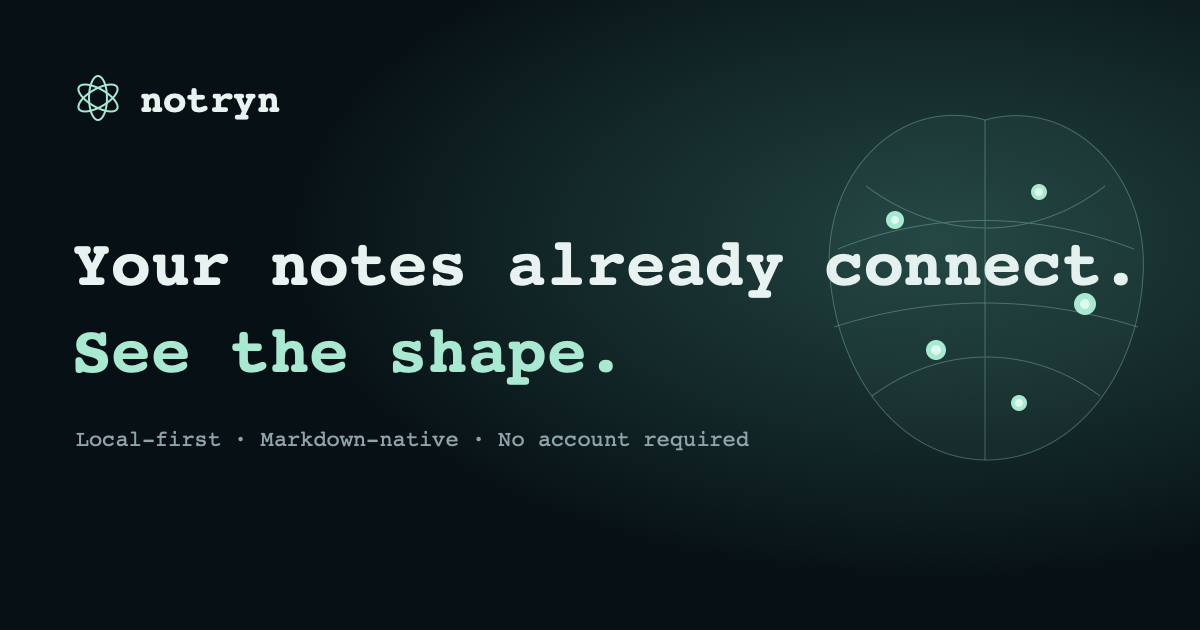
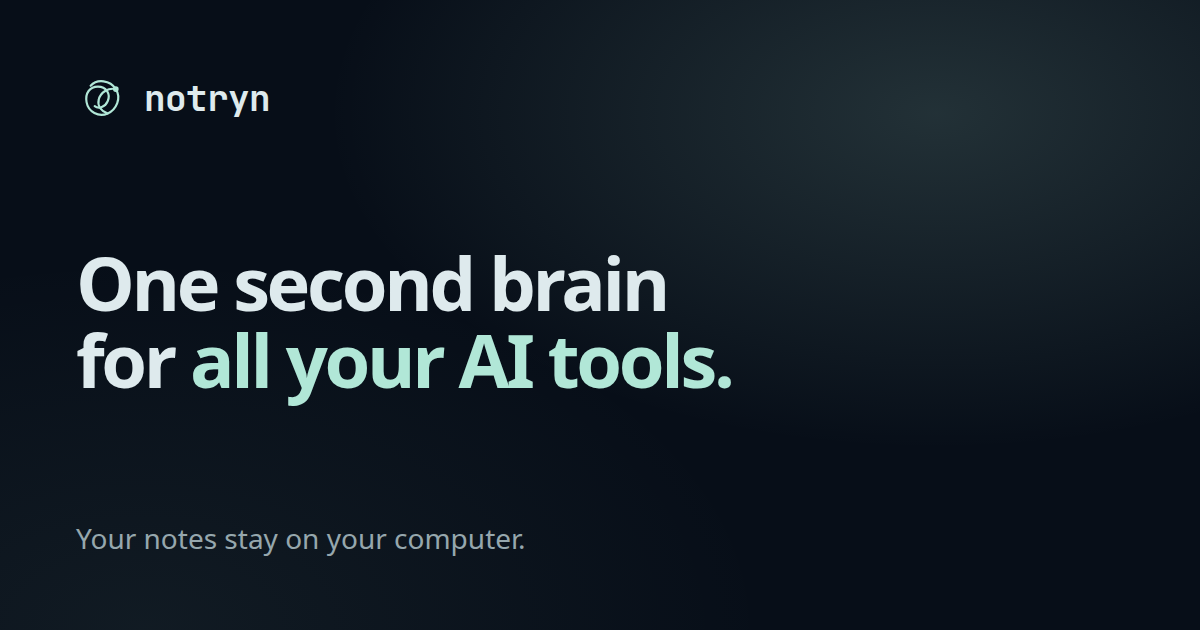
Fix mobile layout and refresh the homepage message (#19)
* Fix mobile layout and update the homepage message.

Keep the header call to action visible from 320px, restore readable type and tap targets, shorten the mobile demo, and replace the hero, share card, sync section and FAQ with the current copy.

* Update the SEO title and the sync section heading.

Point the page title and descriptions at synced notes, and rename the sync section without changing the hero headline.

---------

diff --git a/index.html b/index.html
@@ -3,29 +3,35 @@
 <head>
   <meta charset="utf-8"><meta name="viewport" content="width=device-width,initial-scale=1">
   <meta name="theme-color" content="#070e18">
-  <meta name="description" content="Notryn is a free, local-first Markdown notes app for Linux and macOS. Connect notes with wiki links, explore them as a Brain, keep AI context in plain files and sync through your own GitHub repository.">
-  <title>Notryn · Free local Markdown notes app for Linux &amp; macOS</title>
+  <meta name="description" content="Free second brain for your AI tools. Notes stay on your computer, synced notes on all your computers, and you can switch AI tools without losing context.">
+  <title>Notryn | Second brain for your AI tools, with synced notes</title>
   <meta property="og:type" content="website"><meta property="og:site_name" content="Notryn"><meta property="og:url" content="https://notryn.com/">
-  <meta property="og:title" content="Notryn · Your notes, connected."><meta property="og:description" content="A local Markdown workspace for your ideas, projects and AI context. Keep your own files.">
-  <meta property="og:image" content="https://notryn.com/assets/notryn-card.png"><meta property="og:image:width" content="1200"><meta property="og:image:height" content="630"><meta property="og:image:alt" content="Notryn: your notes, connected.">
+  <meta property="og:title" content="Notryn | Second brain for your AI tools, with synced notes"><meta property="og:description" content="Free second brain for your AI tools. Notes stay on your computer, synced notes on all your computers, and you can switch AI tools without losing context.">
+  <meta property="og:image" content="https://notryn.com/assets/notryn-card.png"><meta property="og:image:width" content="1200"><meta property="og:image:height" content="630"><meta property="og:image:alt" content="Notryn: One second brain for all your AI tools.">
   <meta name="twitter:card" content="summary_large_image">
+  <meta name="twitter:title" content="Notryn | Second brain for your AI tools, with synced notes">
+  <meta name="twitter:description" content="Free second brain for your AI tools. Notes stay on your computer, synced notes on all your computers, and you can switch AI tools without losing context.">
+  <meta name="twitter:image" content="https://notryn.com/assets/notryn-card.png">
+  <meta name="twitter:image:alt" content="Notryn: One second brain for all your AI tools.">
   <link rel="icon" href="assets/favicon.svg" type="image/svg+xml">
   <script src="assets/runtime/theme-core.js"></script><script src="theme.js"></script>
   <link rel="stylesheet" href="styles.css"><script defer src="page.js"></script>
-<script type="application/ld+json">[{"@context": "https://schema.org", "@type": "WebSite", "name": "Notryn", "url": "https://notryn.com/"}, {"@context": "https://schema.org", "@type": "SoftwareApplication", "name": "Notryn", "url": "https://notryn.com/", "description": "Notryn is a free, local-first Markdown notes app for Linux and macOS. Connect notes with wiki links, explore them as a Brain, keep AI context in plain files and sync through your own GitHub repository.", "applicationCategory": "ProductivityApplication", "operatingSystem": "Linux, macOS", "softwareVersion": "0.2.0-beta.13", "image": "https://notryn.com/assets/notryn-card.png", "offers": {"@type": "Offer", "price": "0", "priceCurrency": "USD"}, "author": {"@type": "Person", "name": "Pedro Teixeira"}}, {"@context": "https://schema.org", "@type": "FAQPage", "mainEntity": [{"@type": "Question", "name": "Does it work with my existing notes?", "acceptedAnswer": {"@type": "Answer", "text": "Connect a folder of Markdown files. Notryn follows your folders and reads Markdown links and wiki links between notes. Your files stay in their original location."}}, {"@type": "Question", "name": "Is there a mobile app?", "acceptedAnswer": {"@type": "Answer", "text": "Not yet. A mobile version is in development, with no release date yet. Because your Brains can sync through your own GitHub repository, the same notes will be ready for it. Today Notryn runs on Linux and macOS."}}, {"@type": "Question", "name": "Is it free? What about sync?", "acceptedAnswer": {"@type": "Answer", "text": "The local app is free to use. To keep a Brain the same on several computers, connect it to a private GitHub repository you own. Your notes go only to GitHub, never to a Notryn server, and no Notryn account is needed. GitHub Sync is free during the beta."}}, {"@type": "Question", "name": "Can I contribute or use the source code?", "acceptedAnswer": {"@type": "Answer", "text": "Visit the Notryn GitHub project for the code, issues and development updates. Contributions are reviewed before merging. The software license and contributor terms define what is permitted."}}]}]</script>
+<script type="application/ld+json">[{"@context": "https://schema.org", "@type": "WebSite", "name": "Notryn", "url": "https://notryn.com/"}, {"@context": "https://schema.org", "@type": "SoftwareApplication", "name": "Notryn", "url": "https://notryn.com/", "description": "Free second brain for your AI tools. Notes stay on your computer, synced notes on all your computers, and you can switch AI tools without losing context.", "applicationCategory": "ProductivityApplication", "operatingSystem": "Linux, macOS", "softwareVersion": "0.2.0-beta.13", "image": "https://notryn.com/assets/notryn-card.png", "offers": {"@type": "Offer", "price": "0", "priceCurrency": "USD"}, "author": {"@type": "Person", "name": "Pedro Teixeira"}}, {"@context": "https://schema.org", "@type": "FAQPage", "mainEntity": [{"@type": "Question", "name": "How do I build a Brain?", "acceptedAnswer": {"@type": "Answer", "text": "Start small. Write one note for each idea, project or person, and link the notes that belong together so they join up in the Brain. Give your AI tools access to the folder, and they can read these notes and, if you allow it, help keep them up to date. For the idea behind it, read Andrej Karpathy's LLM Wiki (https://gist.github.com/karpathy/442a6bf555914893e9891c11519de94f), a short guide to building a personal wiki that AI tools can read and maintain."}}, {"@type": "Question", "name": "Does it work with my existing notes?", "acceptedAnswer": {"@type": "Answer", "text": "Connect a folder of Markdown files. Notryn follows your folders and reads Markdown links and wiki links between notes. Your files stay in their original location."}}, {"@type": "Question", "name": "Is there a mobile app?", "acceptedAnswer": {"@type": "Answer", "text": "Not yet. A mobile version is in development, with no release date yet. Because your Brains can sync through your own GitHub repository, the same notes will be ready for it. Today Notryn runs on Linux and macOS."}}, {"@type": "Question", "name": "Is it free? What about sync?", "acceptedAnswer": {"@type": "Answer", "text": "The app itself stays free. To keep a Brain the same on several computers, connect it to a private GitHub repository you own. Your notes go only to GitHub, never to a Notryn server, and no Notryn account is needed. Free during the beta. Later, sync may become an optional paid feature at a low price, with a one-time option."}}, {"@type": "Question", "name": "Can I contribute or use the source code?", "acceptedAnswer": {"@type": "Answer", "text": "Visit the Notryn GitHub project for the code, issues and development updates. Contributions are reviewed before merging. The software license and contributor terms define what is permitted."}}]}]</script>
 <link rel="canonical" href="https://notryn.com/"></head>
 <body>
   <a class="skip-link" href="#main">Skip to content</a>
   <header class="site-header wrap" id="top">
     <a class="brand" href="#top" aria-label="Notryn home"><svg aria-hidden="true" viewBox="0 0 64 64"><use href="#notryn-mark"/></svg><span>notryn</span></a>
-    <nav aria-label="Main navigation"><a href="#experience">Explore</a><a href="guide.html">Docs</a><a href="https://github.com/pedromst/notryn">GitHub ↗</a><a class="nav-cta" href="#install">Get Notryn <span aria-hidden="true">↗</span></a></nav>
+    <nav aria-label="Main navigation"><a href="#experience">Explore</a><a href="guide.html">Docs</a><a href="https://github.com/pedromst/notryn">GitHub ↗</a><a class="nav-cta" href="#install">Get Notryn <span aria-hidden="true">↓</span></a></nav>
   </header>
   <main id="main">
+    <!-- Editable copy: hero strings, the sync intro and the FAQ live here as plain text. -->
     <section class="hero wrap">
       <p class="eyebrow"><span class="status-dot"></span> Free local app · Your files stay yours</p>
-      <h1>Your notes.<br><em>On your machine.</em></h1>
-      <p class="hero-copy">Write, find and connect your notes in one local workspace.<br> A Brain for your ideas, projects and the context your AI tools need.</p>
-      <div class="hero-actions"><a class="button" href="#install">Get Notryn <span aria-hidden="true">↓</span></a><a class="text-link" href="#experience">Try the Brain <span aria-hidden="true">↘</span></a></div>
+      <h1>One second brain <br>for <em>all your AI tools.</em></h1>
+      <p class="hero-copy">Your notes stay on your computer, in files you own. Switch AI tools whenever you like without losing your context, and never depend on just one.</p>
+      <p class="hero-brain">See everything in the Brain, a visual map where every note is a dot and linked notes are joined by lines.</p>
+      <div class="hero-actions"><div class="hero-primary"><a class="button" href="#install">Get Notryn free <span aria-hidden="true">↓</span></a><p class="small hero-note">Linux and macOS (beta). No account needed.</p></div><a class="text-link" href="#experience">Try the live demo <span aria-hidden="true">↘</span></a></div>
     </section>
 
     <section class="experience wrap" id="experience" aria-labelledby="demo-title">
@@ -34,8 +40,10 @@
       <noscript><p>Enable JavaScript to explore the sample Brain.</p></noscript>
     </section>
 
+    <section class="sync-section wrap" id="sync" aria-labelledby="sync-title"><div class="sync-intro"><p class="eyebrow sync-kicker"><!-- Primer Octicons mark-github, MIT. Shape unchanged. --><svg class="github-mark" role="img" aria-label="GitHub" viewBox="0 0 24 24" width="16" height="16"><path fill="currentColor" d="M12 1C5.923 1 1 5.923 1 12c0 4.867 3.149 8.979 7.521 10.436.55.096.756-.233.756-.522 0-.262-.013-1.128-.013-2.049-2.764.509-3.479-.674-3.699-1.292-.124-.317-.66-1.293-1.127-1.554-.385-.207-.936-.715-.014-.729.866-.014 1.485.797 1.691 1.128.99 1.663 2.571 1.196 3.204.907.096-.715.385-1.196.701-1.471-2.448-.275-5.005-1.224-5.005-5.432 0-1.196.426-2.186 1.128-2.956-.111-.275-.496-1.402.11-2.915 0 0 .921-.288 3.024 1.128a10.193 10.193 0 0 1 2.75-.371c.936 0 1.871.123 2.75.371 2.104-1.43 3.025-1.128 3.025-1.128.605 1.513.221 2.64.111 2.915.701.77 1.127 1.747 1.127 2.956 0 4.222-2.571 5.157-5.019 5.432.399.344.743 1.004.743 2.035 0 1.471-.014 2.654-.014 3.025 0 .289.206.632.756.522C19.851 20.979 23 16.854 23 12c0-6.077-4.922-11-11-11Z"/></svg> GitHub Sync</p><h2 id="sync-title">Your Brain, synced on all your computers</h2><p>GitHub Sync keeps your Brain the same on several computers, through a private GitHub repository you own. Free during the beta. Later, sync may become an optional paid feature at a low price, with a one-time option. The app itself stays free.</p><a class="text-link" href="sync.html">Set up sync <span>→</span></a></div><ol class="sync-steps"><li><strong>Create a private repository</strong><span>On GitHub. Empty, any name. Your notes live there, not on a Notryn server.</span></li><li><strong>Connect a fine-grained token</strong><span>Access to that repository only, with Contents read and write. Notryn keeps it in your system keychain.</span></li><li><strong>Choose the same repository on each computer</strong><span>On a new computer, create an empty Brain and pick the repository. Your notes arrive on the first sync.</span></li></ol></section>
+
     <section class="install-section wrap" id="install" aria-labelledby="install-title">
-      <div class="install-intro"><p class="eyebrow">On your computer</p><h2 id="install-title">A small command.<br>Your own workspace.</h2><p>Install from the terminal. Then open Notryn from your app menu, like any desktop app.</p><a class="text-link" href="guide.html">Install, update &amp; uninstall <span aria-hidden="true">↗</span></a></div>
+      <div class="install-intro"><p class="eyebrow">On your computer</p><h2 id="install-title">A small command. <br>Your own workspace.</h2><p>Install from the terminal. Then open Notryn from your app menu, like any desktop app.</p><a class="text-link" href="guide.html">Install, update &amp; uninstall <span aria-hidden="true">↗</span></a></div>
       <div class="install-card">
         <div class="platform-tabs" role="group" aria-label="Choose your operating system"><button data-platform="linux" aria-pressed="true">Linux</button><button data-platform="macos" aria-pressed="false">macOS</button><button data-platform="windows" aria-pressed="false">Windows</button></div>
         <div class="install-body" aria-live="polite"><p class="status-label" id="install-status">Linux x86_64 · Omarchy</p><h3 id="platform-title">Your Linux. Your colors.</h3><p id="platform-description">Install for your user, then open Notryn from your application menu. Everything needed to run the app is included. On Omarchy, Notryn automatically follows your desktop theme. You can also choose any of the built-in themes.</p><div id="command-area"><div class="code-heading"><span>Terminal</span></div><div class="command-box"><pre tabindex="0" aria-label="Installation command"><code id="install-command">curl -fsSL https://notryn.com/install.sh | sh</code></pre><button id="copy-install" class="copy-command" type="button">Copy command</button></div><p class="small" id="platform-note">Your notes and settings are kept when you update or uninstall.</p></div><a class="text-link" href="guide.html#linux" id="platform-guide">Step-by-step guide <span aria-hidden="true">↗</span></a></div>
@@ -43,20 +51,20 @@
     </section>
 
     <section class="benefits wrap" id="your-files" aria-label="Why Notryn">
-      <article><span class="benefit-mark">Your workflow</span><h2>Keyboard or mouse.<br>Your choice.</h2><p>Use Notryn entirely with keyboard shortcuts, or work with your mouse. Find actions in the searchable command menu and learn shortcuts as you go.</p></article>
-      <article><span class="benefit-mark">Your context</span><h2>Your context.<br>Ready for your AI.</h2><p>Keep project decisions and useful knowledge in Markdown. Give your chosen LLM or agent the files it needs, instead of explaining everything again.</p><p class="small">You choose access. Nothing is sent to an AI automatically.</p></article>
-      <article><span class="benefit-mark">Your files</span><h2>Ordinary files.<br>Entirely yours.</h2><p>Write visually or in Markdown. Work offline, keep your own folders and open your notes in other editors. No Notryn account needed.</p></article>
+      <article><span class="benefit-mark">Your workflow</span><h2>Keyboard or mouse. <br>Your choice.</h2><p>Use Notryn entirely with keyboard shortcuts, or work with your mouse. Find actions in the searchable command menu and learn shortcuts as you go.</p></article>
+      <article><span class="benefit-mark">Your context</span><h2>Your context. <br>Ready for your AI.</h2><p>Keep project decisions and useful knowledge in Markdown. Give your chosen LLM or agent the files it needs, instead of explaining everything again.</p><p class="small">You choose access. Nothing is sent to an AI automatically.</p></article>
+      <article><span class="benefit-mark">Your files</span><h2>Ordinary files. <br>Entirely yours.</h2><p>Write visually or in Markdown. Work offline, keep your own folders and open your notes in other editors. No Notryn account needed.</p></article>
     </section>
 
-    <section class="sync-section wrap" id="sync" aria-labelledby="sync-title"><div class="sync-intro"><p class="eyebrow">GitHub Sync · new</p><h2 id="sync-title">One Brain. <br>Every computer.</h2><p>Built in, easy and very simple: about five minutes of setup, once. Connect a Brain to a private GitHub repository you own. Notryn brings in changes when it opens, syncs on the schedule you choose and never drops an edit: if two computers change the same note, both versions are kept.</p><a class="text-link" href="sync.html">Set up sync <span>→</span></a></div><ol class="sync-steps"><li><strong>Create a private repository</strong><span>On GitHub. Empty, any name. Your notes live there, not on a Notryn server.</span></li><li><strong>Connect a fine-grained token</strong><span>Access to that repository only, with Contents read and write. Notryn keeps it in your system keychain.</span></li><li><strong>Choose the same repository on each computer</strong><span>On a new computer, create an empty Brain and pick the repository. Your notes arrive on the first sync.</span></li></ol></section>
-
     <section class="questions wrap" aria-labelledby="questions-title"><h2 id="questions-title">Good to know.</h2><div>
+      <details><summary>How do I build a Brain?</summary><p>Start small. Write one note for each idea, project or person, and link the notes that belong together so they join up in the Brain. Give your AI tools access to the folder, and they can read these notes and, if you allow it, help keep them up to date. For the idea behind it, read Andrej Karpathy's <a href="https://gist.github.com/karpathy/442a6bf555914893e9891c11519de94f" target="_blank" rel="noopener">LLM Wiki</a>, a short guide to building a personal wiki that AI tools can read and maintain.</p></details>
       <details><summary>Does it work with my existing notes?</summary><p>Connect a folder of Markdown files. Notryn follows your folders and reads Markdown links and wiki links between notes. Your files stay in their original location.</p></details>
       <details><summary>Is there a mobile app?</summary><p>Not yet. A mobile version is in development, with no release date yet. Because your Brains can sync through your own GitHub repository, the same notes will be ready for it. Today Notryn runs on Linux and macOS.</p></details>
-      <details><summary>Is it free? What about sync?</summary><p>The local app is free to use. To keep a Brain the same on several computers, connect it to a private GitHub repository you own. Your notes go only to GitHub, never to a Notryn server, and no Notryn account is needed. GitHub Sync is free during the beta. It may become an optional paid feature later; if so, it will be very affordable. <a href="sync.html">How to set it up</a>.</p></details>
+      <details><summary>Is it free? What about sync?</summary><p>The app itself stays free. To keep a Brain the same on several computers, connect it to a private GitHub repository you own. Your notes go only to GitHub, never to a Notryn server, and no Notryn account is needed. Free during the beta. Later, sync may become an optional paid feature at a low price, with a one-time option. <a href="sync.html">How to set it up</a>.</p></details>
       <details><summary>Can I contribute or use the source code?</summary><p>Visit our <a href="https://github.com/pedromst/notryn">GitHub project</a> for the code, issues and development updates. Contributions are reviewed before merging. The <a href="terms.html">software license and contributor terms</a> define what is permitted.</p></details>
     </div></section>
   </main>
   <footer class="wrap"><a class="brand" href="#top"><svg aria-hidden="true" viewBox="0 0 64 64"><use href="#notryn-mark"/></svg><span>notryn</span></a><p>Your notes. Your context. Your computer.</p><span class="small">© 2026 Pedro Teixeira</span><nav class="footer-links" aria-label="Project and policies"><a href="https://github.com/pedromst/notryn">GitHub</a><a href="contact.html">Contact</a><a href="privacy.html">Privacy</a><a href="terms.html">Terms &amp; license</a><a href="security.html">Security</a></nav></footer>
   <svg class="svg-defs" aria-hidden="true"><symbol id="notryn-mark" viewBox="0 0 64 64"><g fill="none" stroke="currentColor" stroke-width="2.65" stroke-linecap="round" stroke-linejoin="round"><path d="M18 17C26 8 42 10 49 21C56 32 50 46 39 51C28 56 15 49 13 37C11 26 17 18 27 18C37 18 43 27 39 36C36 43 28 46 23 42"/><path d="M49 21C40 19 30 25 28 34C26 42 31 48 39 51"/></g><circle cx="49" cy="21" r="3.5" fill="currentColor"/></symbol></svg>
-</body></html>
+</body>
+</html>

diff --git a/styles.css b/styles.css
@@ -2,8 +2,8 @@
 @font-face{font-family:Notryn Mono;src:url('assets/fonts/JetBrainsMono-700-latin.woff2') format('woff2');font-weight:700;font-display:swap}
 *{box-sizing:border-box}html{scroll-behavior:smooth;scroll-padding-top:32px}body{margin:0;background:var(--bg,#070e18);color:var(--text,#deeaed);font:16px/1.65 -apple-system,BlinkMacSystemFont,'Segoe UI',sans-serif;-webkit-font-smoothing:antialiased}body::before{content:'';position:absolute;inset:0 0 auto;height:680px;background:radial-gradient(ellipse at 50% 0,rgba(177,231,215,.065),transparent 65%);pointer-events:none}a{color:inherit;text-decoration:none}button{font:inherit;cursor:pointer}a,button,summary{touch-action:manipulation}button,summary,a{-webkit-tap-highlight-color:transparent}a:focus-visible,button:focus-visible,summary:focus-visible,pre:focus-visible{outline:2px solid var(--accent,#b1e7d7);outline-offset:5px}p,h1,h2,h3{margin:0}svg{display:block}.wrap{width:min(1100px,calc(100% - 64px));margin-inline:auto}.site-header{height:112px;display:flex;align-items:center;justify-content:space-between;position:relative}.brand{display:inline-flex;align-items:center;gap:10px;font:700 29px/1 'Notryn Mono',monospace;letter-spacing:-1.5px}.brand svg{width:42px;height:42px;color:var(--accent,#b1e7d7)}nav{display:flex;align-items:center;gap:32px;font-size:14px}nav a{color:var(--muted,#96a7ad)}nav a:hover,.text-link:hover{color:var(--accent,#b1e7d7)}nav .nav-cta{color:var(--text,#deeaed);border-bottom:1px solid var(--border,#2b3e49);padding:8px 0}.nav-cta span{margin-left:8px}.hero{text-align:center;padding:54px 0 66px}.eyebrow,.small,.benefit-mark,.platform-tabs,.status-label,.code-heading{font-family:'Notryn Mono',monospace}.eyebrow{font-size:12px;color:var(--muted,#96a7ad);letter-spacing:.03em}.status-dot{display:inline-block;width:6px;height:6px;margin:0 7px 2px 0;border-radius:50%;background:var(--accent,#b1e7d7);box-shadow:0 0 12px #b1e7d740}h1{font-size:clamp(52px,6.3vw,80px);line-height:1.07;font-weight:600;letter-spacing:-.055em;margin:25px 0}h1 em{font-style:normal;color:var(--accent,#b1e7d7)}.hero-copy{font-size:18px;line-height:1.7;color:var(--muted,#96a7ad);max-width:590px;margin:auto}.input-promise{font-size:15px;margin-top:20px;color:var(--text,#deeaed)}.hero-actions{display:flex;gap:28px;justify-content:center;align-items:center;margin-top:27px}.button{background:var(--accent,#b1e7d7);color:var(--bg,#070e18);padding:12px 22px;border-radius:9px;font-size:14px;font-weight:650;display:inline-flex;align-items:center;gap:24px}.button:hover{filter:brightness(1.07)}.text-link{font-size:14px;display:inline-flex;align-items:center;gap:14px}.small{color:var(--muted,#96a7ad);font-size:11px;line-height:1.7}.release-note{margin-top:16px;font-size:10px}.experience{scroll-margin-top:24px}.experience-heading{display:flex;align-items:center;justify-content:space-between;padding-bottom:16px}.experience-heading h2{font-size:15px;font-weight:500}.demo-frame{border:1px solid var(--border,#2b3e49);border-radius:18px;overflow:hidden;background:var(--bg,#070e18)}.brain-demo{display:block;width:100%;height:610px;border:0}.demo-caption{display:flex;justify-content:space-between;gap:50px;margin-top:16px;color:var(--muted,#96a7ad);font-size:12px}.demo-caption details{max-width:330px;flex:0 0 210px}.demo-caption summary{text-align:right;cursor:pointer;color:var(--text,#deeaed)}.demo-caption details p{padding-top:12px}.benefits{display:grid;grid-template-columns:repeat(3,1fr);gap:54px;padding-block:100px}.benefit-mark{font-size:11px;color:var(--accent,#b1e7d7)}.benefits h2{font-size:25px;line-height:1.25;letter-spacing:-.035em;margin:18px 0}.benefits p{font-size:14px;color:var(--muted,#96a7ad);line-height:1.75}.benefits p.small{margin-top:14px;font-size:10px}.install-section{display:grid;grid-template-columns:.85fr 1.15fr;align-items:center;gap:70px;padding-block:50px 95px;border-top:1px solid var(--border,#2b3e49)}.install-intro h2{font-size:34px;line-height:1.2;letter-spacing:-.04em;margin:18px 0}.install-intro p:not(.eyebrow){font-size:15px;color:var(--muted,#96a7ad);max-width:315px}.install-intro .text-link{margin-top:24px;color:var(--accent,#b1e7d7)}.install-card{border:1px solid var(--border,#2b3e49);border-radius:14px;overflow:hidden;min-width:0;background:var(--panel,#101f2a)}.platform-tabs{display:flex;padding:8px;gap:6px;border-bottom:1px solid var(--border,#2b3e49)}.platform-tabs button{background:transparent;border:0;color:var(--muted,#96a7ad);border-radius:7px;padding:8px 15px;font-size:12px}.platform-tabs button[aria-pressed=true]{background:var(--accent,#b1e7d7);color:var(--bg,#070e18)}.install-body{padding:24px}.status-label{font-size:10px;color:var(--accent,#b1e7d7)}.install-body h3{font-size:20px;font-weight:550;margin:10px 0}.install-body>p:not(.status-label){font-size:13px;color:var(--muted,#96a7ad);line-height:1.7}.code-heading{display:flex;align-items:center;justify-content:space-between;margin-top:22px;font-size:10px;color:var(--muted,#96a7ad)}.code-heading button{font:inherit;background:transparent;border:0;color:var(--accent,#b1e7d7);padding:6px 0 6px 10px}pre{background:var(--bg,#070e18);border:1px solid var(--border,#2b3e49);border-radius:7px;padding:14px;overflow:auto;margin:8px 0 12px;font:11px/1.8 'Notryn Mono',monospace;tab-size:2}code{font-family:inherit}.install-body .text-link{margin-top:18px;font-size:12px}.install-body .small{font-size:10px}.questions{display:grid;grid-template-columns:.85fr 1.15fr;gap:70px;padding-bottom:90px}.questions h2{font-size:27px;letter-spacing:-.03em}.questions details{border-bottom:1px solid var(--border,#2b3e49);padding:17px 0}.questions details:first-child{padding-top:0}.questions summary{cursor:pointer;font-size:14px;list-style:none;display:flex;justify-content:space-between;gap:20px}.questions summary::after{content:'+';color:var(--accent,#b1e7d7)}.questions details[open] summary::after{content:'−'}.questions summary::-webkit-details-marker{display:none}.questions details p{font-size:13px;color:var(--muted,#96a7ad);padding-top:14px;line-height:1.8}footer{display:flex;align-items:center;justify-content:space-between;gap:25px;padding-block:30px;border-top:1px solid var(--border,#2b3e49)}footer .brand{font-size:20px}footer .brand svg{width:29px;height:29px}footer p{font-size:12px;color:var(--muted,#96a7ad)}.svg-defs{width:0;height:0;position:absolute;overflow:hidden}.skip-link{position:absolute;left:20px;top:-100px;padding:10px;background:var(--accent,#b1e7d7);color:var(--bg,#070e18);z-index:10}.skip-link:focus{top:15px}[hidden]{display:none!important}
 .guide-main{max-width:760px;margin:40px auto 90px}.guide-main h1{font-size:48px;margin-bottom:20px}.guide-main .lead{color:var(--muted,#96a7ad);font-size:17px}.guide-main section{margin-top:45px}.guide-main h2{font-size:25px;letter-spacing:-.03em;margin-bottom:14px}.guide-main h3{font-size:17px;margin:25px 0 12px}.guide-main p,.guide-main li{font-size:14px;color:var(--muted,#96a7ad);margin-bottom:12px}.guide-main a{color:var(--accent,#b1e7d7);text-decoration:underline;text-underline-offset:3px}.guide-main strong{color:var(--text,#deeaed)}.guide-main ol{padding-left:22px}.guide-main pre{font-size:12px;margin:15px 0}.guide-nav{display:flex;gap:22px;flex-wrap:wrap;margin-top:25px;font-size:13px}.guide-main :target{scroll-margin-top:30px}
-@media(max-width:760px){.wrap{width:calc(100% - 40px)}.site-header{height:85px}.brand{font-size:24px}.brand svg{width:35px;height:35px}nav{gap:20px;font-size:12px}nav>a:first-child{display:none}.hero{padding:40px 0 50px}h1{font-size:62px}.hero-copy{font-size:16px;max-width:420px}.hero-copy br{display:none}.input-promise{font-size:13px}.hero-actions{gap:23px}.experience-heading .small{font-size:9px;max-width:150px;text-align:right}.brain-demo{height:550px}.demo-caption{display:block;font-size:11px}.demo-caption details{max-width:none;margin-top:10px}.demo-caption summary{text-align:left}.benefits{grid-template-columns:1fr;gap:32px;padding-block:58px}.benefits article{max-width:480px}.benefits h2 br{display:none}.benefits h2{font-size:23px;margin:10px 0}.benefits p{font-size:14px}.install-section{grid-template-columns:1fr;gap:30px;padding-block:40px 55px}.install-intro h2{font-size:32px}.install-intro p:not(.eyebrow){max-width:460px}.install-intro h2 br{display:none}.questions{grid-template-columns:1fr;gap:25px;padding-bottom:45px}footer{flex-wrap:wrap;gap:18px}footer p{order:3;width:100%}.guide-main h1{font-size:38px}.guide-main{margin-block:25px 60px}}
-@media(max-width:400px){nav{gap:14px}nav .nav-cta{display:none}h1{font-size:56px}.hero-copy{font-size:15px}.brain-demo{height:510px}.install-body{padding:19px}.platform-tabs button{padding:8px 12px}}
+@media(max-width:760px){.wrap{width:calc(100% - 40px)}.site-header{height:85px}.brand{font-size:24px}.brand svg{width:35px;height:35px}nav{gap:20px;font-size:12px}.site-header nav>a:first-child{display:none}.hero{padding:40px 0 50px}h1{font-size:62px}.hero-copy{font-size:16px;max-width:420px}.hero-copy br{display:none}.input-promise{font-size:13px}.hero-actions{gap:23px}.experience-heading .small{font-size:9px;max-width:150px;text-align:right}.brain-demo{height:550px}.demo-caption{display:block;font-size:11px}.demo-caption details{max-width:none;margin-top:10px}.demo-caption summary{text-align:left}.benefits{grid-template-columns:1fr;gap:32px;padding-block:58px}.benefits article{max-width:480px}.benefits h2 br{display:none}.benefits h2{font-size:23px;margin:10px 0}.benefits p{font-size:14px}.install-section{grid-template-columns:1fr;gap:30px;padding-block:40px 55px}.install-intro h2{font-size:32px}.install-intro p:not(.eyebrow){max-width:460px}.install-intro h2 br{display:none}.questions{grid-template-columns:1fr;gap:25px;padding-bottom:45px}footer{flex-wrap:wrap;gap:18px}footer p{order:3;width:100%}.guide-main h1{font-size:38px}.guide-main{margin-block:25px 60px}}
+@media(max-width:400px){nav{gap:14px}.site-header .nav-cta{display:inline-flex}h1{font-size:56px}.hero-copy{font-size:15px}.brain-demo{height:510px}.install-body{padding:19px}.platform-tabs button{padding:8px 12px}}
 @media(prefers-reduced-motion:reduce){html{scroll-behavior:auto}}
 
 /* Supporting links stay in the footer; the main page remains short. */
@@ -11,7 +11,7 @@ footer{flex-wrap:wrap}.footer-links{display:flex;flex-wrap:wrap;gap:22px;font-si
 @media(max-width:760px){.install-section{margin-top:38px}.benefits{padding-block:5px 55px}.footer-links{gap:18px}nav{gap:17px}.hero h1{font-size:52px}.hero-copy{max-width:400px}}
 @media(max-width:400px){.hero h1{font-size:46px}.site-header nav{gap:12px}.footer-links{font-size:11px}}
 
-.brain-demo{height:700px}.demo-caption a{color:var(--accent);text-decoration:underline;text-underline-offset:3px}@media(max-width:760px){.brain-demo{height:660px}}
+.brain-demo{height:700px}.demo-caption a{color:var(--accent);text-decoration:underline;text-underline-offset:3px}@media(max-width:760px){.brain-demo{height:480px}}
 
 /* A static, faint network keeps the hero quiet and costs no animation frames. */
 .hero{position:relative;isolation:isolate}
@@ -22,3 +22,32 @@ footer{flex-wrap:wrap}.footer-links{display:flex;flex-wrap:wrap;gap:22px;font-si
 .guide-main ul,.guide-main ol{padding-left:22px;color:var(--muted,#96a7ad);line-height:1.8}.guide-main li{margin:8px 0}.guide-main li strong{color:var(--text,#deeaed)}.sync-help-list dt{margin-top:18px;color:var(--text,#deeaed);font-weight:550}.sync-help-list dd{margin:5px 0 0;font-size:14px;color:var(--muted,#96a7ad);line-height:1.75}
 .command-box{position:relative;margin:8px 0 12px}.command-box pre{margin:0;padding-right:150px}.copy-command{position:absolute;top:50%;right:10px;transform:translateY(-50%);font:600 11px/1 'Notryn Mono',monospace;color:var(--bg,#070e18);background:var(--accent,#b1e7d7);border:0;border-radius:7px;padding:9px 12px;white-space:nowrap}.copy-command:hover{filter:brightness(1.08)}
 @media(max-width:760px){.command-box pre{padding-right:14px;padding-bottom:58px;white-space:pre-wrap;word-break:break-all}.copy-command{top:auto;bottom:10px;transform:none;right:10px}}
+
+/* Hero copy block and the GitHub mark in the sync section. */
+.hero-brain{font-size:16px;line-height:1.7;color:var(--muted,#96a7ad);max-width:640px;margin:16px auto 0}
+.hero-primary{display:flex;flex-direction:column;align-items:center;gap:10px}
+.hero-note{margin:0}
+.hero-actions{align-items:flex-start}
+.hero-actions .text-link{min-height:44px}
+.site-header nav{flex-shrink:0}.site-header .nav-cta,.site-header nav a{white-space:nowrap}.site-header .nav-cta{min-height:44px;display:inline-flex;align-items:center;flex:none;padding-inline:4px}
+.sync-kicker{display:inline-flex;align-items:center;gap:8px}
+.github-mark{width:16px;height:16px;flex:none;display:block;fill:currentColor;color:var(--text,#deeaed)}
+.questions details a{color:var(--accent,#b1e7d7);text-decoration:underline;text-underline-offset:3px}
+
+@media(max-width:760px){
+  .site-header nav a{min-height:44px;display:inline-flex;align-items:center}
+  .hero-actions{flex-wrap:wrap;justify-content:center;row-gap:8px}
+  .hero-copy,.hero-brain,.benefits p:not(.small),.install-intro p:not(.eyebrow),.install-body>p:not(.status-label),.sync-intro>p:not(.eyebrow),.sync-steps span,.questions details p,.experience-heading h2{font-size:16px}
+  .small,.benefit-mark,.status-label,.code-heading,.experience-heading .small,.benefits p.small,.install-body .small,.footer-links,footer p,pre,.copy-command,.release-note,.platform-tabs,.eyebrow{font-size:12px}
+  .platform-tabs button,.copy-command,.questions summary,.footer-links a,.hero-actions .text-link,.button{min-height:44px}
+  .questions summary{align-items:center}
+  .footer-links a{display:inline-flex;align-items:center}
+  .command-box pre,.command-box code{white-space:nowrap;word-break:normal;overflow-x:auto}
+  .command-box pre{padding-bottom:72px}
+  .copy-command{font-size:12px;padding:12px 14px}
+}
+@media(max-width:400px){
+  .site-header nav a:not(.nav-cta){display:none}
+  .hero-copy{font-size:16px}
+  .hero h1{font-size:40px}
+}

diff --git a/THIRD_PARTY_NOTICES.md b/THIRD_PARTY_NOTICES.md
@@ -1937,3 +1937,29 @@ AUTHORS OR COPYRIGHT HOLDERS BE LIABLE FOR ANY CLAIM, DAMAGES OR OTHER
 LIABILITY, WHETHER IN AN ACTION OF CONTRACT, TORT OR OTHERWISE, ARISING FROM,
 OUT OF OR IN CONNECTION WITH THE SOFTWARE OR THE USE OR OTHER DEALINGS IN THE
 SOFTWARE.
+
+## Primer Octicons mark-github
+
+The GitHub mark in the sync section is the `mark-github` icon from Primer Octicons, used inline without changing its shape or proportions. Copyright GitHub, Inc.
+
+MIT License
+
+Copyright (c) GitHub, Inc.
+
+Permission is hereby granted, free of charge, to any person obtaining a copy
+of this software and associated documentation files (the "Software"), to deal
+in the Software without restriction, including without limitation the rights
+to use, copy, modify, merge, publish, distribute, sublicense, and/or sell
+copies of the Software, and to permit persons to whom the Software is
+furnished to do so, subject to the following conditions:
+
+The above copyright notice and this permission notice shall be included in all
+copies or substantial portions of the Software.
+
+THE SOFTWARE IS PROVIDED "AS IS", WITHOUT WARRANTY OF ANY KIND, EXPRESS OR
+IMPLIED, INCLUDING BUT NOT LIMITED TO THE WARRANTIES OF MERCHANTABILITY,
+FITNESS FOR A PARTICULAR PURPOSE AND NONINFRINGEMENT. IN NO EVENT SHALL THE
+AUTHORS OR COPYRIGHT HOLDERS BE LIABLE FOR ANY CLAIM, DAMAGES OR OTHER
+LIABILITY, WHETHER IN AN ACTION OF CONTRACT, TORT OR OTHERWISE, ARISING FROM,
+OUT OF OR IN CONNECTION WITH THE SOFTWARE OR THE USE OR OTHER DEALINGS IN THE
+SOFTWARE.
